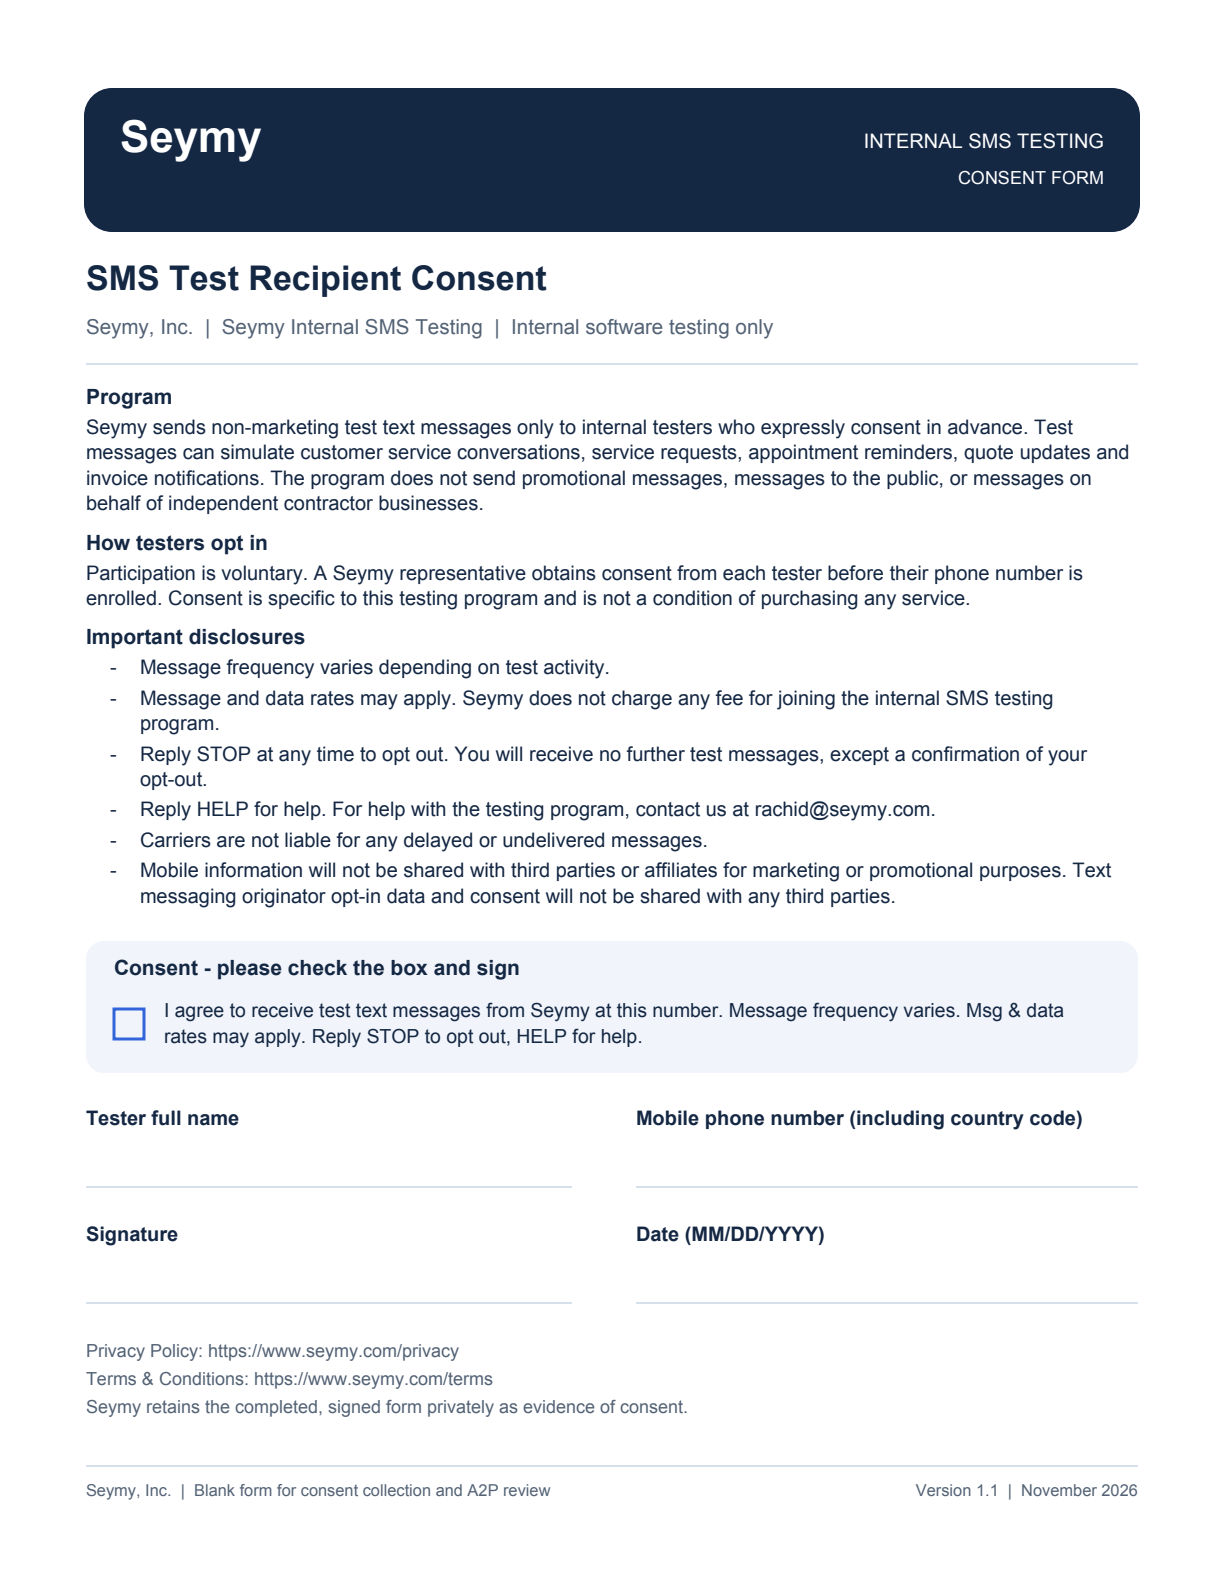
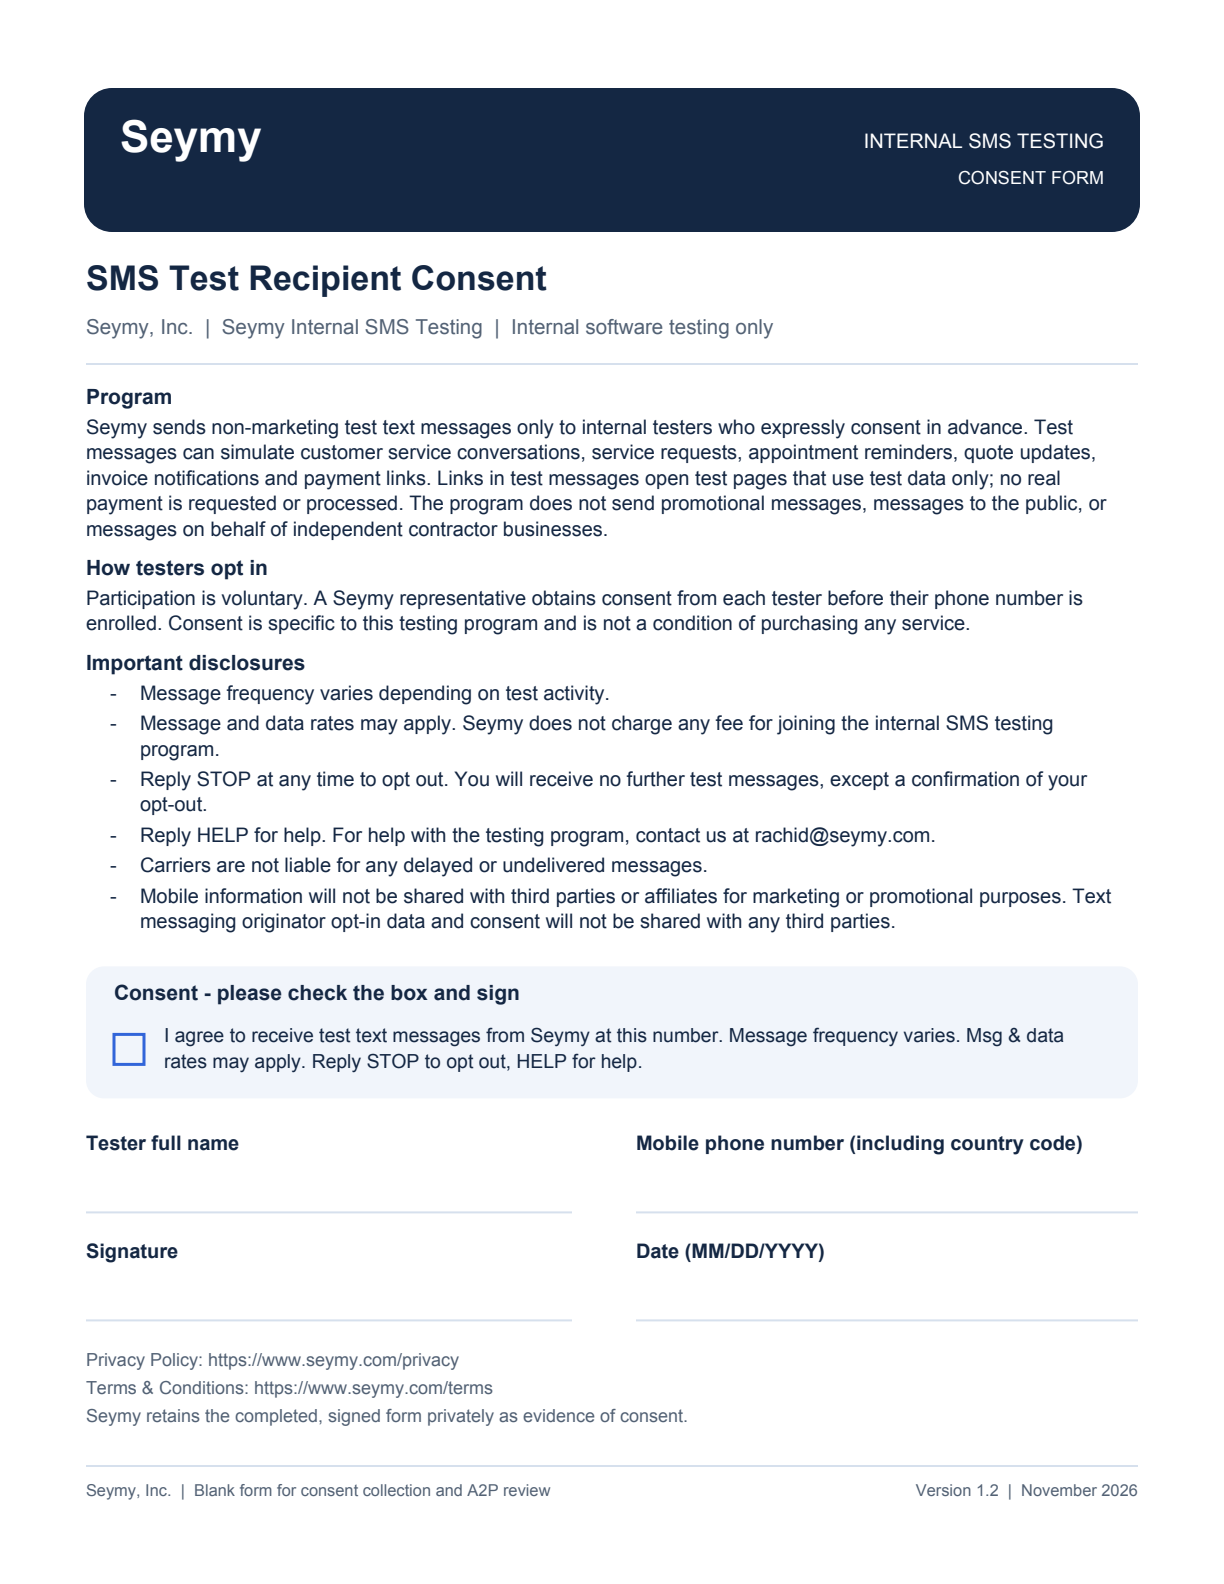
SMS program: cover test payment links; consent form v1.2
GO-CODE of Rachid (2026-11-11): the Program entry of the SMS block shared
by /privacy and /terms now names payment links and states that links open
test pages with test data only and that no real payment is requested or
processed. Nothing else in the legal pages changes.

- landing/legal/sms_internal_testing.html: Program sentence (approved text)
- form v1.2 regenerated by tools/sms_test_consent_form/build.py from the
  legal block; field spacing 58 -> 54 pt so it stays on one page
- /sms-test-consent: same Program text, version 1.2
- tests: /privacy and /terms show the new sentence; version 1.2
- consent statement, fields and mandatory mentions unchanged

diff --git a/landing/templates/landing/legal/sms_test_consent.html b/landing/templates/landing/legal/sms_test_consent.html
@@ -5,13 +5,13 @@
   form, a tester's name, number or signature, and never add an online form here.
   The PNG and PDF live in public_root/assets/ (fixed URLs, served by WhiteNoise)
   and are generated by tools/sms_test_consent_form/build.py from the legal
-  templates. The form text below must stay identical to them (version 1.1)
+  templates. The form text below must stay identical to them (version 1.2)
   and to landing/legal/sms_internal_testing.html (checked by test_site0).
 {% endcomment %}
 {% block title %}SMS Test Consent Form{% endblock %}
 {% block description %}The blank paper form Seymy, Inc. uses to collect consent from internal testers before sending them test text messages.{% endblock %}
 {% block heading %}SMS Test Consent Form{% endblock %}
-{% block updated %}<p class="legal-updated">Form version 1.1 · November 2026</p>{% endblock %}
+{% block updated %}<p class="legal-updated">Form version 1.2 · November 2026</p>{% endblock %}
 {% block content %}
       <section class="legal-section" aria-labelledby="stc-about">
         <h2 id="stc-about">About this form</h2>
@@ -25,9 +25,9 @@
         <figure class="legal-form-figure">
           <a href="/assets/seymy-sms-test-consent-form.png">
             <img src="/assets/seymy-sms-test-consent-form.png" width="1224" height="1584"
-                 alt="Blank Seymy SMS Test Recipient Consent form, version 1.1, November 2026: program description, opt-in, disclosures, an unchecked consent box, and empty fields for tester full name, mobile phone number, signature and date. Its full text is reproduced below.">
+                 alt="Blank Seymy SMS Test Recipient Consent form, version 1.2, November 2026: program description, opt-in, disclosures, an unchecked consent box, and empty fields for tester full name, mobile phone number, signature and date. Its full text is reproduced below.">
           </a>
-          <figcaption>Blank form, version 1.1 (November 2026). No personal information is shown.</figcaption>
+          <figcaption>Blank form, version 1.2 (November 2026). No personal information is shown.</figcaption>
         </figure>
         <p class="legal-form-links">
           <a href="/assets/seymy-sms-test-consent-form.pdf">Download the blank form (PDF)</a>
@@ -40,7 +40,7 @@
         <h3 class="legal-sms__title">SMS Test Recipient Consent</h3>
         <p>Seymy, Inc. | Seymy Internal SMS Testing | Internal software testing only</p>
         <h3 class="legal-sms__title">Program</h3>
-        <p>Seymy sends non-marketing test text messages only to internal testers who expressly consent in advance. Test messages can simulate customer service conversations, service requests, appointment reminders, quote updates and invoice notifications. The program does not send promotional messages, messages to the public, or messages on behalf of independent contractor businesses.</p>
+        <p>Seymy sends non-marketing test text messages only to internal testers who expressly consent in advance. Test messages can simulate customer service conversations, service requests, appointment reminders, quote updates, invoice notifications and payment links. Links in test messages open test pages that use test data only; no real payment is requested or processed. The program does not send promotional messages, messages to the public, or messages on behalf of independent contractor businesses.</p>
         <h3 class="legal-sms__title">How testers opt in</h3>
         <p>Participation is voluntary. A Seymy representative obtains consent from each tester before their phone number is enrolled. Consent is specific to this testing program and is not a condition of purchasing any service.</p>
         <h3 class="legal-sms__title">Important disclosures</h3>

diff --git a/landing/templates/landing/legal/sms_internal_testing.html b/landing/templates/landing/legal/sms_internal_testing.html
@@ -6,7 +6,7 @@
 {% endcomment %}
         <h3 class="legal-sms__title">Seymy Internal SMS Testing</h3>
         <dl class="legal-sms">
-          <div><dt>Program</dt><dd>Seymy sends non-marketing test text messages only to internal testers who expressly consent in advance. Test messages can simulate customer service conversations, service requests, appointment reminders, quote updates and invoice notifications. The program does not send promotional messages, messages to the public, or messages on behalf of independent contractor businesses.</dd></div>
+          <div><dt>Program</dt><dd>Seymy sends non-marketing test text messages only to internal testers who expressly consent in advance. Test messages can simulate customer service conversations, service requests, appointment reminders, quote updates, invoice notifications and payment links. Links in test messages open test pages that use test data only; no real payment is requested or processed. The program does not send promotional messages, messages to the public, or messages on behalf of independent contractor businesses.</dd></div>
           <div><dt>How testers opt in</dt><dd>Participation is voluntary. A Seymy representative obtains consent from each tester before their phone number is enrolled. Testers agree to this statement: “I agree to receive test text messages from Seymy at this number. Message frequency varies. Msg &amp; data rates may apply. Reply STOP to opt out, HELP for help.” Consent is specific to this testing program and is not a condition of purchasing any service.</dd></div>
           <div><dt>Message frequency</dt><dd>Message frequency varies depending on test activity.</dd></div>
           <div><dt>Costs</dt><dd>Message and data rates may apply. Seymy does not charge any fee for joining the internal SMS testing program.</dd></div>

diff --git a/landing/test_site0.py b/landing/test_site0.py
@@ -223,7 +223,10 @@ class LegalPagesTests(SimpleTestCase):
                              'Msg &amp; data rates may apply.', 'Reply STOP', 'HELP for help.',
                              'For help with the testing program, contact us using the details in the Contact section below.',
                              'does not send promotional messages',
-                             'Carriers are not liable for any delayed or undelivered messages.']:
+                             'Carriers are not liable for any delayed or undelivered messages.',
+                             'quote updates, invoice notifications and payment links.',
+                             'Links in test messages open test pages that use test data only; '
+                             'no real payment is requested or processed.']:
                     self.assertIn(item, html)
         privacy = self.client.get('/privacy', secure=True).content.decode()
         self.assertIn(
@@ -413,11 +416,11 @@ class SmsTestConsentPageTests(SimpleTestCase):
             'Fields completed by the tester: tester full name; mobile phone number (including country code); '
             'signature; date (MM/DD/YYYY).',
             'Seymy retains the completed, signed form privately as evidence of consent.',
-            'Form version 1.1 · November 2026',
+            'Form version 1.2 · November 2026',
         ]:
             with self.subTest(item=item):
                 self.assertIn(item, text)
-        for retired in ['Form version 1.0', 'I agree to receive SMS test messages from Seymy, Inc.',
+        for retired in ['Form version 1.0', 'Form version 1.1', 'I agree to receive SMS test messages from Seymy, Inc.',
                         'reply HELP for assistance', 'based on testing activity']:
             with self.subTest(retired=retired):
                 self.assertNotIn(retired, text)
@@ -477,12 +480,12 @@ class SmsTestConsentPageTests(SimpleTestCase):
             with self.subTest(label=label):
                 self.assertIn(label, pdf_text)
 
-    def test_published_files_are_version_1_1(self):
+    def test_published_files_are_version_1_2(self):
         from pathlib import Path
         pdf = (Path(__file__).resolve().parent.parent / 'public_root' / self.PDF.lstrip('/')).read_bytes()
-        self.assertIn(b'(Version 1.1  |  November 2026)', pdf)
+        self.assertIn(b'(Version 1.2  |  November 2026)', pdf)
         self.assertIn(b'/Title (Seymy SMS Test Recipient Consent Form \\(blank\\))', pdf)
-        self.assertNotIn(b'Version 1.0', pdf)
+        self.assertNotIn(b'Version 1.1', pdf)
 
     def test_links_to_privacy_terms_and_contact(self):
         self.assertIn('href="/privacy"', self.html)

diff --git a/tools/sms_test_consent_form/build.py b/tools/sms_test_consent_form/build.py
@@ -30,7 +30,7 @@ from reportlab.lib.pagesizes import letter  # noqa: E402
 from reportlab.lib.utils import simpleSplit  # noqa: E402
 from reportlab.pdfgen import canvas  # noqa: E402
 
-VERSION = 'Version 1.1  |  November 2026'
+VERSION = 'Version 1.2  |  November 2026'
 ROOT = Path(__file__).resolve().parents[2]
 LEGAL = ROOT / 'landing' / 'templates' / 'landing' / 'legal'
 OUT = ROOT / 'public_root' / 'assets'
@@ -176,7 +176,7 @@ def build_pdf(texts, path):
         c.setStrokeColor(LINE)
         c.line(left, y - 31, 286, y - 31)
         c.line(318, y - 31, right, y - 31)
-        y -= 58
+        y -= 54
 
     c.setFillColor(MUTED)
     c.setFont('Helvetica', 9)
